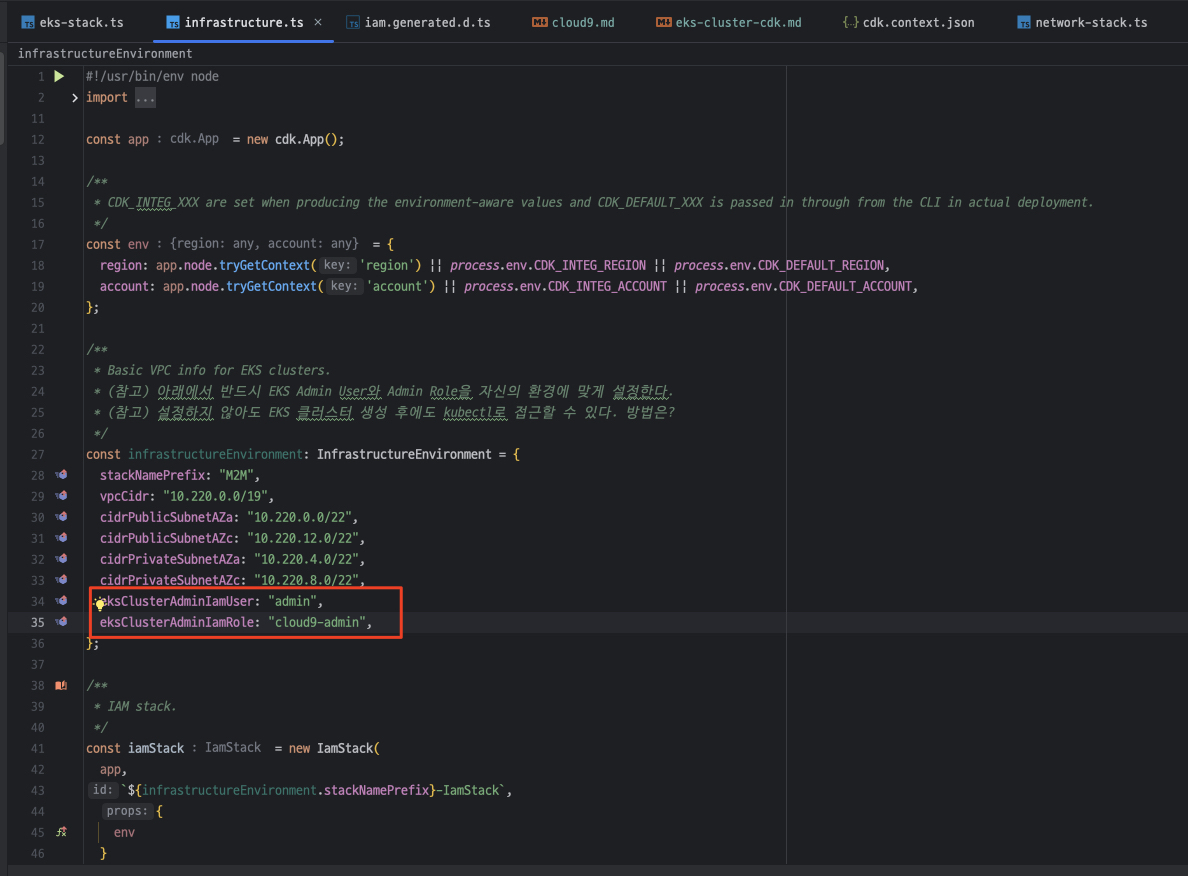
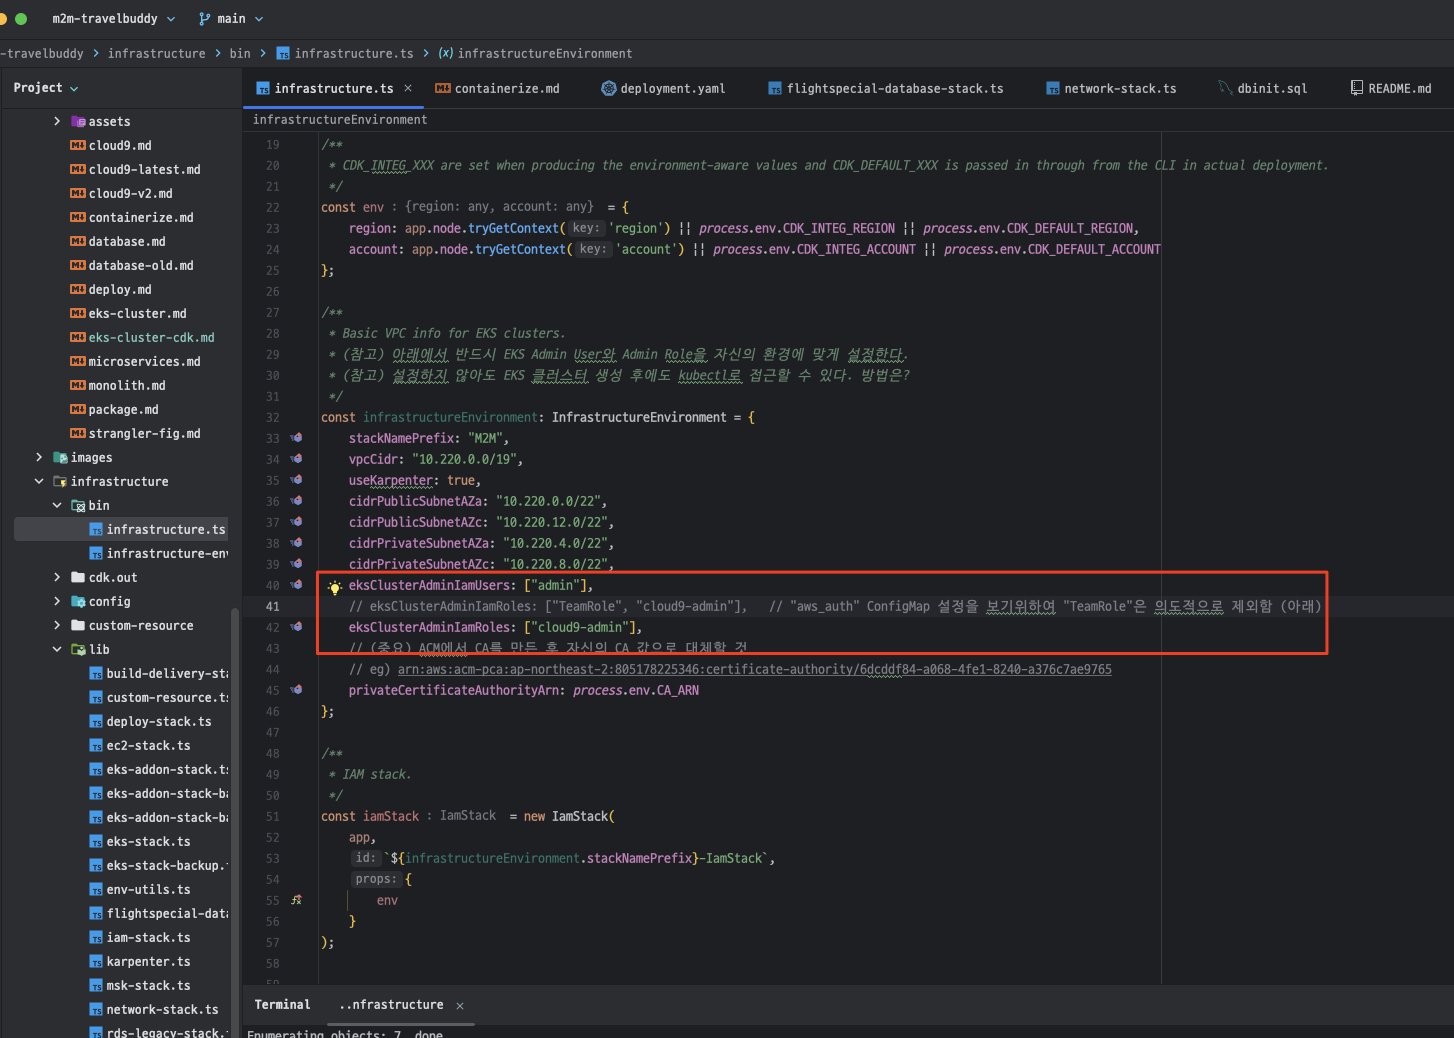
Removed TeamRole from EKS admin intentionally

diff --git a/infrastructure/bin/infrastructure.ts b/infrastructure/bin/infrastructure.ts
@@ -38,7 +38,8 @@ const infrastructureEnvironment: InfrastructureEnvironment = {
     cidrPrivateSubnetAZa: "10.220.4.0/22",
     cidrPrivateSubnetAZc: "10.220.8.0/22",
     eksClusterAdminIamUsers: ["admin"],
-    eksClusterAdminIamRoles: ["TeamRole", "cloud9-admin"],
+    // eksClusterAdminIamRoles: ["TeamRole", "cloud9-admin"],   // "aws_auth" ConfigMap 설정을 보기위하여 "TeamRole"은 의도적으로 제외함 (아래)
+    eksClusterAdminIamRoles: ["cloud9-admin"],
     // (중요) ACM에서 CA를 만든 후 자신의 CA 값으로 대체할 것
     // eg) arn:aws:acm-pca:ap-northeast-2:805178225346:certificate-authority/6dcddf84-a068-4fe1-8240-a376c7ae9765
     privateCertificateAuthorityArn: process.env.CA_ARN

diff --git a/docs/eks-cluster-cdk.md b/docs/eks-cluster-cdk.md
@@ -19,8 +19,9 @@
 
 아래 명령어를 통해, 클러스터를 배포합니다. 30 ~ 40분 정도 소요됩니다.<br>
 
-- (참고) ```~/environment/m2m-travelbuddy/infrastructure/eks-stack.ts``` 파일 34번째 줄 근방에서 EKS Admin User와 Admin Role을 자신의 환경에 맞게 설정한 후에 진행합니다.
+- (참고) ```~/environment/m2m-travelbuddy/infrastructure/bin/infrastructure.ts``` 파일 40, 42라인 근방에서 EKS Admin User와 Admin Role을 자신이 생성한 User 혹은 Role (예: cloud9-admin)을 포함하고 있는지 확인합니다. 우리는 이 정보를 사용하여 ```aws_auth``` ConfigMap의 동작 양상을 한번 살펴볼 것입니다. (혹시 강사가 언급하는 것을 깜빡한다면 알려주세요~^^)
     ![EKS Admin User and Role](./assets/cdk-eks-admin-user-and-role.png)
+
 - (참고) 설정하지 않아도 EKS 클러스터 생성 후에 kubectl로 접근할 수 있습니다. 방법은?
 
 ```bash
